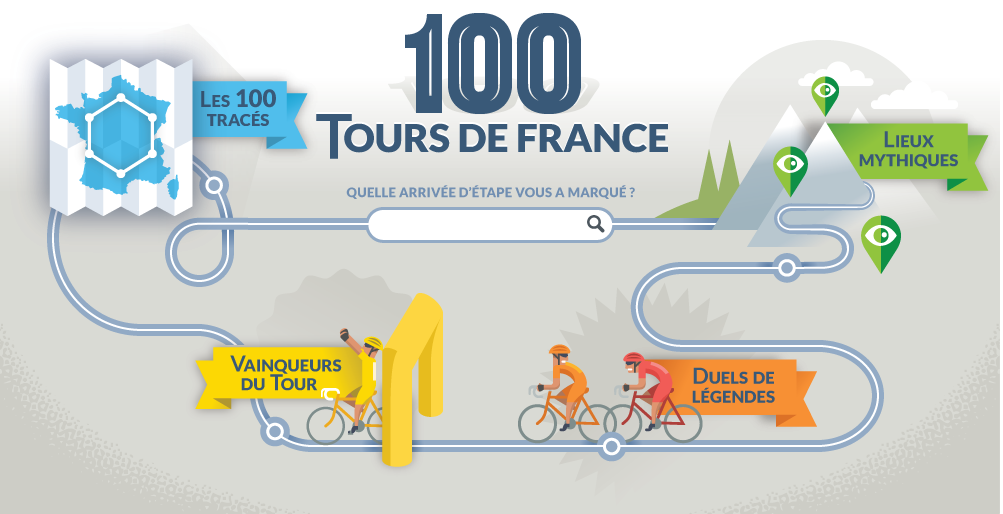
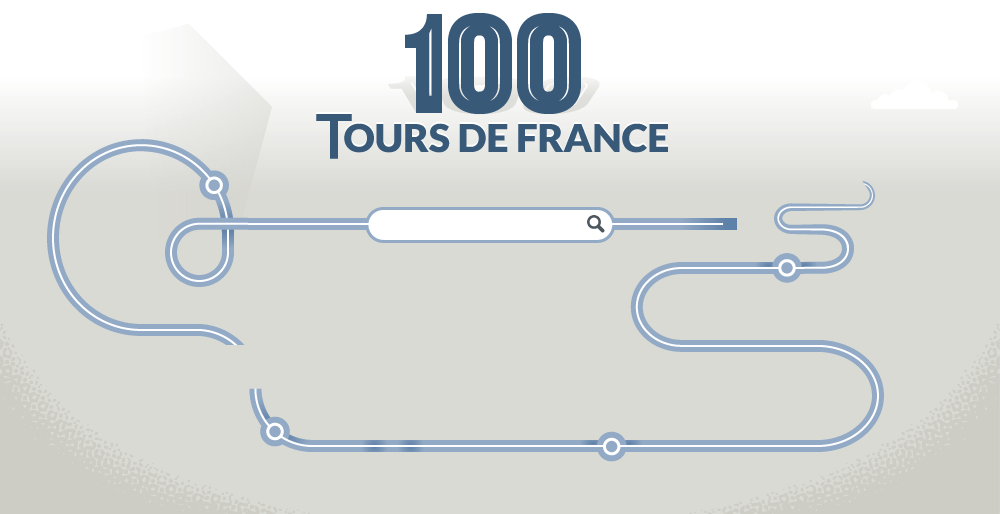
Home Page - Gestion rollover

diff --git a/web/src/scss/_colorbox.scss b/web/src/scss/_colorbox.scss
@@ -19,24 +19,24 @@
     Change the following styles to modify the appearance of Colorbox.  They are
     ordered & tabbed in a way that represents the nesting of the generated HTML.
 */
-#cboxOverlay{background:url(images/overlay.png) repeat 0 0;}
+#cboxOverlay{background:url(/img/colorbox/overlay.png) repeat 0 0;}
 #colorbox{outline:0;}
-    #cboxTopLeft{width:21px; height:21px; background:url(images/controls.png) no-repeat -101px 0;}
-    #cboxTopRight{width:21px; height:21px; background:url(images/controls.png) no-repeat -130px 0;}
-    #cboxBottomLeft{width:21px; height:21px; background:url(images/controls.png) no-repeat -101px -29px;}
-    #cboxBottomRight{width:21px; height:21px; background:url(images/controls.png) no-repeat -130px -29px;}
-    #cboxMiddleLeft{width:21px; background:url(images/controls.png) left top repeat-y;}
-    #cboxMiddleRight{width:21px; background:url(images/controls.png) right top repeat-y;}
-    #cboxTopCenter{height:21px; background:url(images/border.png) 0 0 repeat-x;}
-    #cboxBottomCenter{height:21px; background:url(images/border.png) 0 -29px repeat-x;}
+    #cboxTopLeft{width:21px; height:21px; background:url(/img/colorbox/controls.png) no-repeat -101px 0;}
+    #cboxTopRight{width:21px; height:21px; background:url(/img/colorbox/controls.png) no-repeat -130px 0;}
+    #cboxBottomLeft{width:21px; height:21px; background:url(/img/colorbox/controls.png) no-repeat -101px -29px;}
+    #cboxBottomRight{width:21px; height:21px; background:url(/img/colorbox/controls.png) no-repeat -130px -29px;}
+    #cboxMiddleLeft{width:21px; background:url(/img/colorbox/controls.png) left top repeat-y;}
+    #cboxMiddleRight{width:21px; background:url(/img/colorbox/controls.png) right top repeat-y;}
+    #cboxTopCenter{height:21px; background:url(/img/colorbox/border.png) 0 0 repeat-x;}
+    #cboxBottomCenter{height:21px; background:url(/img/colorbox/border.png) 0 -29px repeat-x;}
     #cboxContent{background:#fff; overflow:hidden;}
         .cboxIframe{background:#fff;}
         #cboxError{padding:50px; border:1px solid #ccc;}
         #cboxLoadedContent{margin-bottom:28px;}
         #cboxTitle{position:absolute; bottom:4px; left:0; text-align:center; width:100%; color:#949494;}
         #cboxCurrent{position:absolute; bottom:4px; left:58px; color:#949494;}
-        #cboxLoadingOverlay{background:url(images/loading_background.png) no-repeat center center;}
-        #cboxLoadingGraphic{background:url(images/loading.gif) no-repeat center center;}
+        #cboxLoadingOverlay{background:url(/img/colorbox/loading_background.png) no-repeat center center;}
+        #cboxLoadingGraphic{background:url(/img/colorbox/loading.gif) no-repeat center center;}
 
         /* these elements are buttons, and may need to have additional styles reset to avoid unwanted base styles */
         #cboxPrevious, #cboxNext, #cboxSlideshow, #cboxClose {border:0; padding:0; margin:0; overflow:visible; width:auto; background:none; }
@@ -45,25 +45,10 @@
         #cboxPrevious:active, #cboxNext:active, #cboxSlideshow:active, #cboxClose:active {outline:0;}
 
         #cboxSlideshow{position:absolute; bottom:4px; right:30px; color:#0092ef;}
-        #cboxPrevious{position:absolute; bottom:0; left:0; background:url(images/controls.png) no-repeat -75px 0; width:25px; height:25px; text-indent:-9999px;}
+        #cboxPrevious{position:absolute; bottom:0; left:0; background:url(/img/colorbox/controls.png) no-repeat -75px 0; width:25px; height:25px; text-indent:-9999px;}
         #cboxPrevious:hover{background-position:-75px -25px;}
-        #cboxNext{position:absolute; bottom:0; left:27px; background:url(images/controls.png) no-repeat -50px 0; width:25px; height:25px; text-indent:-9999px;}
+        #cboxNext{position:absolute; bottom:0; left:27px; background:url(/img/colorbox/controls.png) no-repeat -50px 0; width:25px; height:25px; text-indent:-9999px;}
         #cboxNext:hover{background-position:-50px -25px;}
-        #cboxClose{position:absolute; bottom:0; right:0; background:url(images/controls.png) no-repeat -25px 0; width:25px; height:25px; text-indent:-9999px;}
+        #cboxClose{position:absolute; bottom:0; right:0; background:url(/img/colorbox/controls.png) no-repeat -25px 0; width:25px; height:25px; text-indent:-9999px;}
         #cboxClose:hover{background-position:-25px -25px;}
 
-/*
-  The following fixes a problem where IE7 and IE8 replace a PNG's alpha transparency with a black fill
-  when an alpha filter (opacity change) is set on the element or ancestor element.  This style is not applied to or needed in IE9.
-  See: http://jacklmoore.com/notes/ie-transparency-problems/
-*/
-.cboxIE #cboxTopLeft,
-.cboxIE #cboxTopCenter,
-.cboxIE #cboxTopRight,
-.cboxIE #cboxBottomLeft,
-.cboxIE #cboxBottomCenter,
-.cboxIE #cboxBottomRight,
-.cboxIE #cboxMiddleLeft,
-.cboxIE #cboxMiddleRight {
-    filter: progid:DXImageTransform.Microsoft.gradient(startColorstr=#00FFFFFF,endColorstr=#00FFFFFF);
-}

diff --git a/web/src/scss/_home.scss b/web/src/scss/_home.scss
@@ -10,59 +10,64 @@
 	width:1000px;
 }
 
-.home-block {
-	display:block;
-	margin:0;
-	padding:0;
-	position:absolute;
-	z-index:2;
-}
-
 .home-block a {
+	background-position:left top;
+	background-repeat:no-repeat;
 	display:block;
 	font-size:0;
-	height:100%;
 	line-height:0;
 	margin:0;
 	overflow:hidden;
 	padding:0;
 	text-indent:100%;
-	width:100%;
 	white-space:nowrap;
+	position:absolute;
+	z-index:2;
 }
 
-.home-inner .traces {
-	height:214px;
-	left:18px;
-	top:38px;
-	width:283px;
+.home-block a:hover {
+	background-position:right top;
 }
 
-.home-inner .streetview {
-	height:170px;
-	left:679px;
-	top:38px;
-	width:319px;
+.home-inner .traces a {
+	background-image:url(/img/home/bt-hp-traces.png);
+    height: 273px;
+    left: 4px;
+    top: 14px;
+    width: 306px;
 }
 
-.home-inner .winners {
-	height:211px;
-	left:202px;
-	top:285px;
-	width:251px;
+.home-inner .streetview a {
+	background-image:url(/img/home/bt-hp-lieux.png);
+    height: 243px;
+    left: 638px;
+    top: 40px;
+    width: 361px;
 }
 
-.home-inner .fight {
-	height: 150px;
-	left: 513px;
-	top: 325px;
-	width: 305px;
+.home-inner .winners a {
+	background-image:url(/img/home/bt-hp-vainqueurs.png);
+    height: 193px;
+    left: 189px;
+    top: 287px;
+    width: 254px;
+}
+
+.home-inner .fight a {
+	background-image:url(/img/home/bt-hp-duels.png);
+    height: 230px;
+    left: 517px;
+    top: 282px;
+    width: 366px;
 }
 
 .home-search {
+	display:block;
 	left:381px;
 	top:211px;
 	width:252px;
+	position:absolute;
+	z-index:2;
 }
 
 #search {
